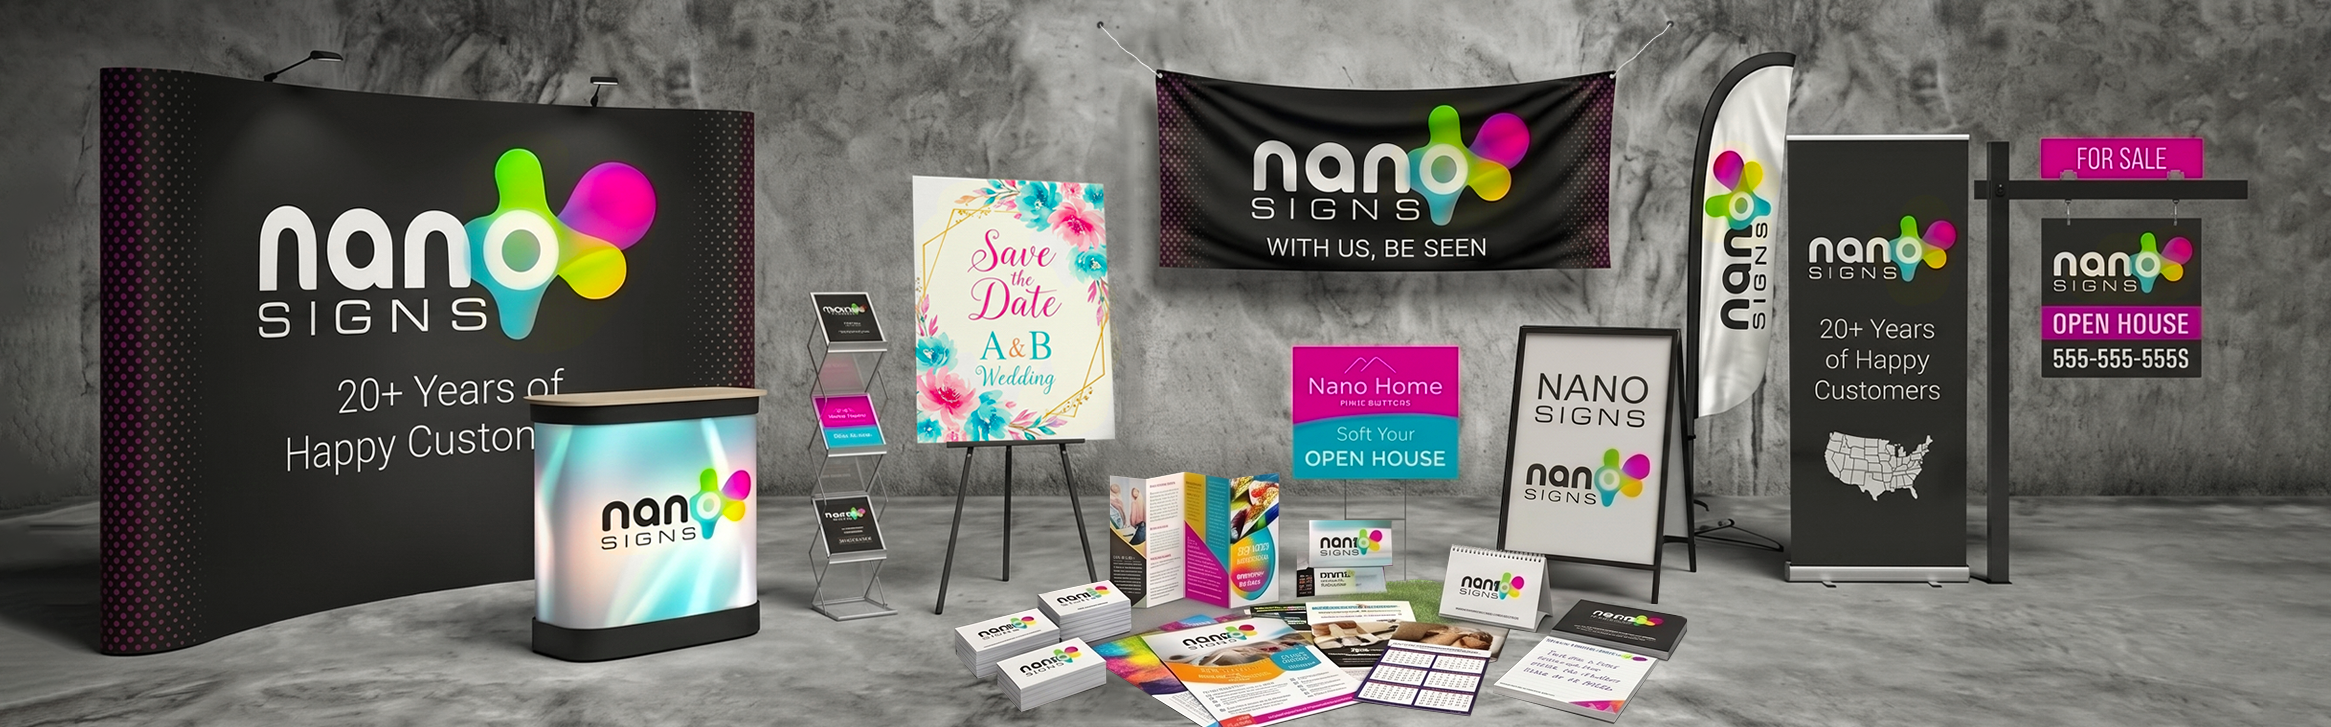
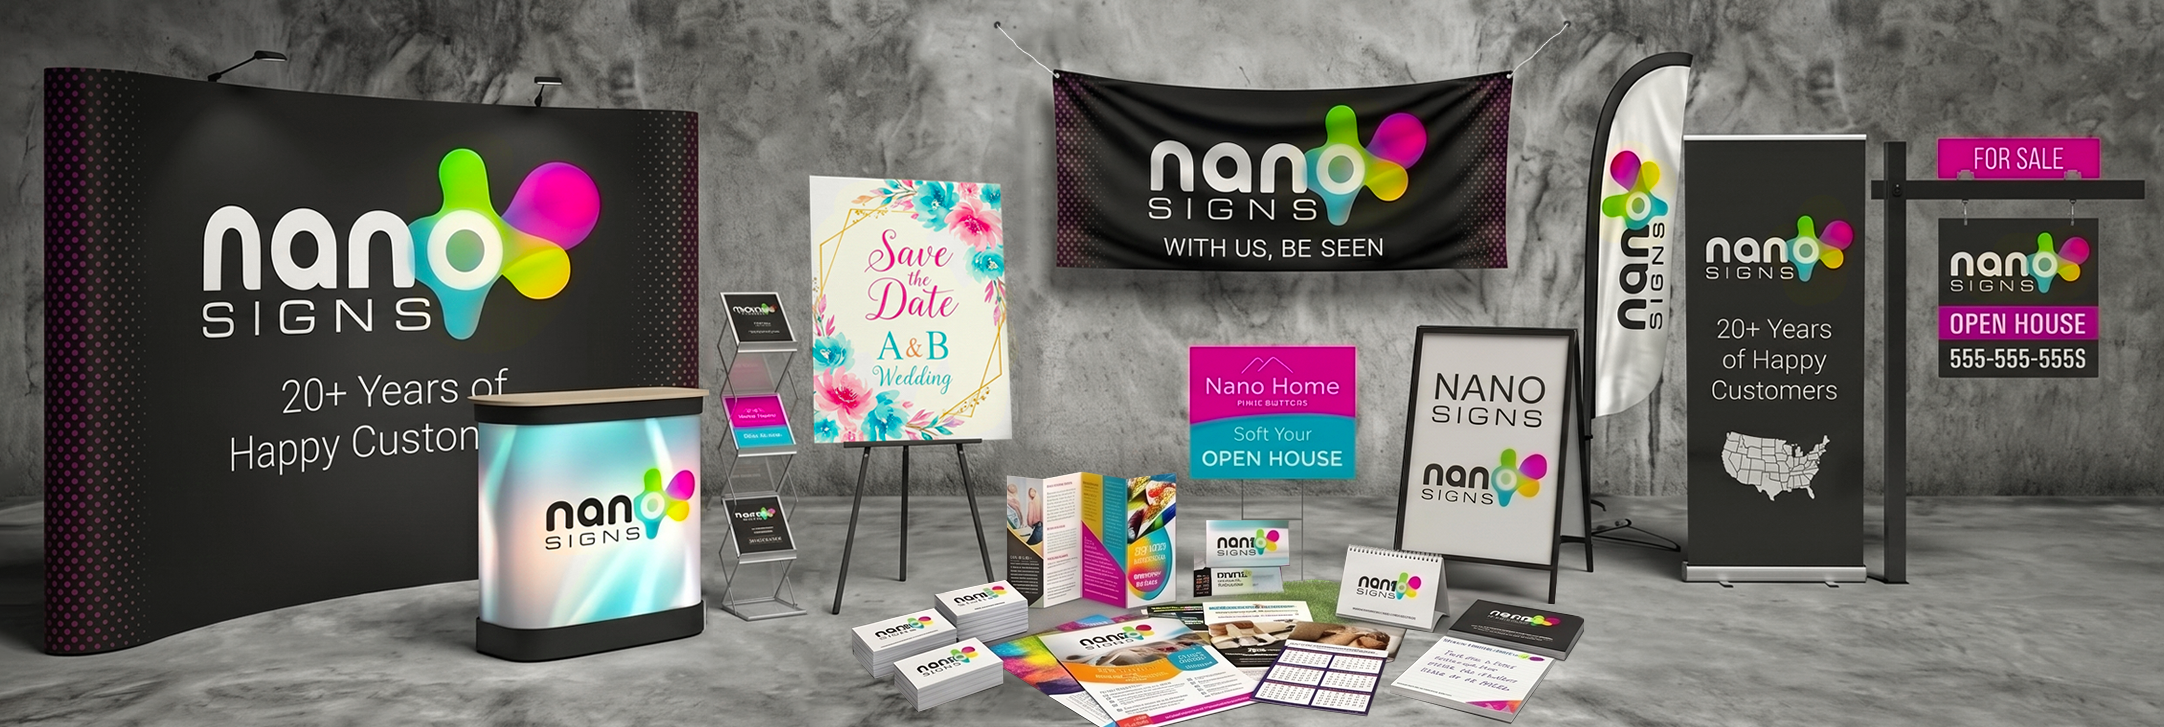
Update hero image to latest version and update aspect ratio to match its dimensions of 2164x727

diff --git a/src/components/HeroSection.tsx b/src/components/HeroSection.tsx
@@ -4,7 +4,7 @@ import Link from "next/link";
 export function HeroSection() {
   return (
     <section className="w-full">
-      <div className="relative w-full aspect-[2331/727]">
+      <div className="relative w-full aspect-[2164/727]">
         <Image
           src="/images/hero-image.png"
           alt="Nano Signs — Custom banners, yard signs, roll-up displays and more"
